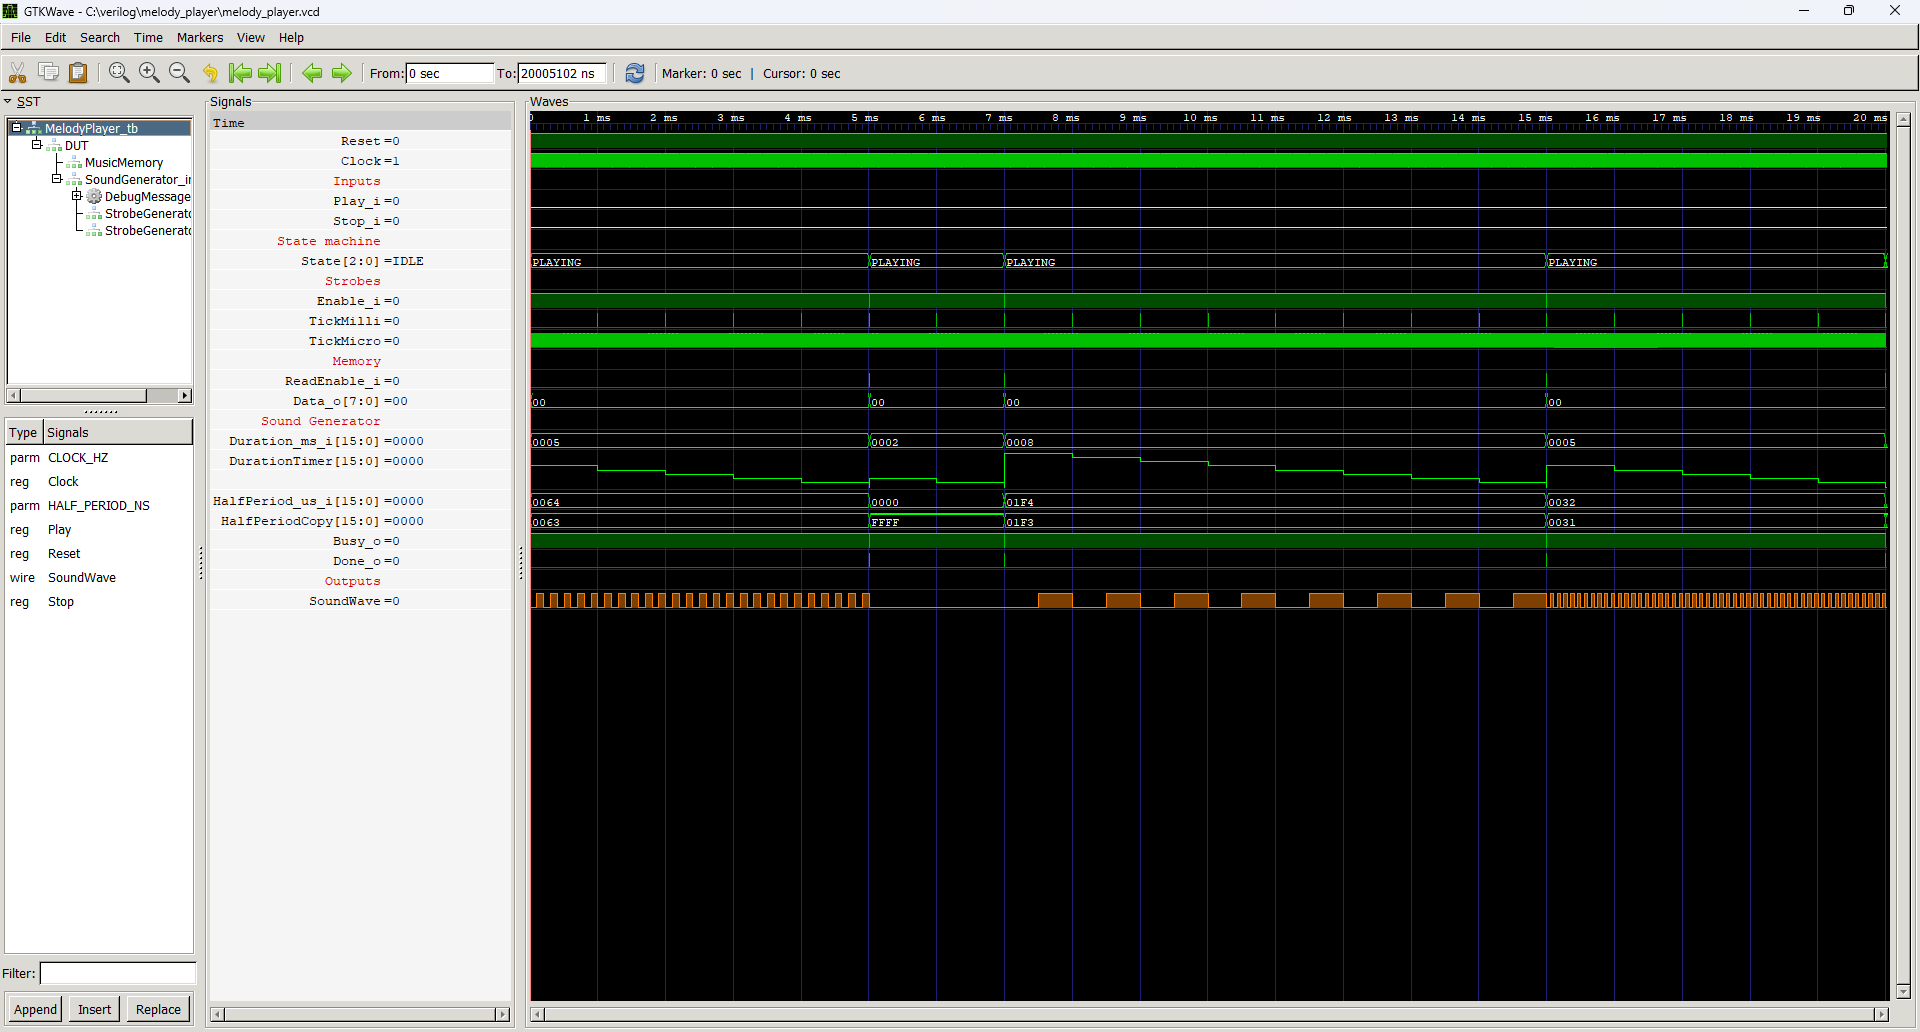
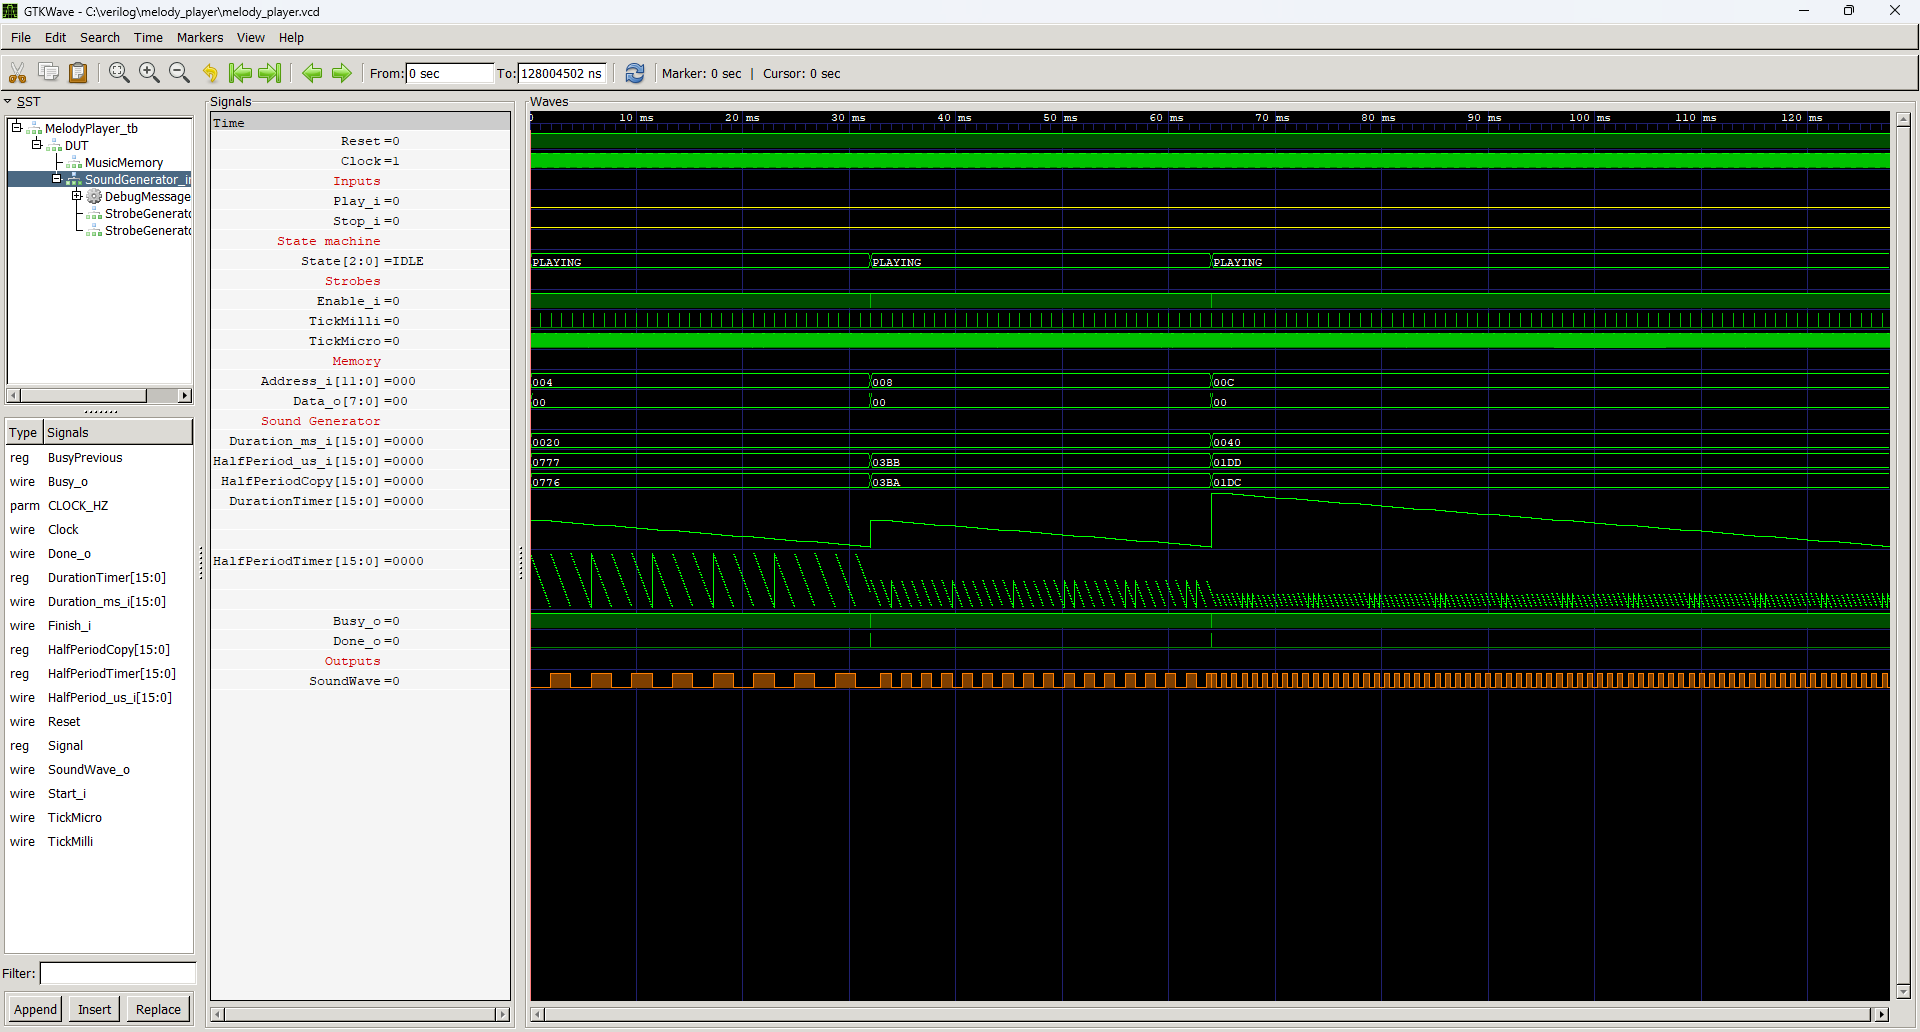
Removed ReadEnable from ROM module - saved resources and improved speed

diff --git a/melody_player/converter.py b/melody_player/converter.py
@@ -1,11 +1,11 @@
 melody = ""
 
 # Debug
-#melody += "64c1 64- 64c2 64- 32c3 "
+melody += "64c1 64c2 32c3 "
 
 # Debug 2
 #melody += "64c1 64- 64c1 64.- 64c1 32- 64c1 32.- 64c1 16- 64c1 16.- 64c1 8- 64c1 8.- 64c1 4- 64c1 4.- 64c1 2- 64c1 2.- 64c1 1- 64c1 1.- 64c1 "
-
+"""
 # Axel F
 melody += "4g2 8.#a2 16g2 16- 16g2 8c3 8g2 8f2 4g2 8.d3 16g2 16- 16g2 8#d3 8d3 8#a2 8g2 8d3 8g3 16g2 16f2 16- 16f2 8d2 8a2 2g2 2- "
 
@@ -26,7 +26,7 @@ melody += "4- 8- 16b2 16a2 4b2 4e2 4- 8- 16c3 16b2 8c3 8b2 4a2 4- 8- 16c3 16b2 4
 
 # Phanthom of the Opera
 melody += "4e1 4a1 4e1 4g1 8f1 2f1 4d1 4g1 8d1 1e1 4e1 4a1 4e1 4g1 8f1 2f1 4d1 4g1 8d1 1e1 4e1 4a1 4c2 4e2 8d2 2d2 4d2 4g2 8d2 1e2 4e2 1a2 8g2 8f2 8e2 8d2 8c2 8b1 8a1 1#g1 4f1 4f1 8e1 1e1 2- "
-
+"""
 duration_dict = {
     "64.": b'\x00\x30',
     "64":  b'\x00\x20',
@@ -95,7 +95,6 @@ with open("rom.v", "w") as file:
     file.write("module ROM(\n")
     file.write("	input wire Clock,\n")
     file.write("	input wire Reset,\n")
-    file.write("	input wire ReadEnable_i,\n")
     file.write("	input wire [11:0] Address_i,\n")
     file.write("	output reg [ 7:0] Data_o\n")
     file.write(");\n")
@@ -103,7 +102,7 @@ with open("rom.v", "w") as file:
     file.write("	always @(posedge Clock) begin\n")
     file.write("		if(!Reset)\n")
     file.write("			Data_o <= 0;\n")
-    file.write("		else if(ReadEnable_i) begin\n")
+    file.write("		else begin\n")
     file.write("			case(Address_i)\n")
     file.write("\n")
     
